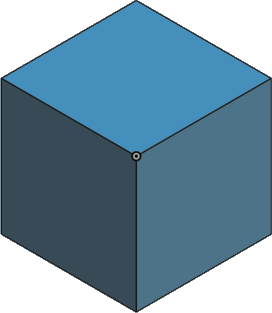
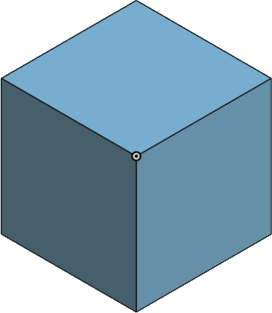
Added correct/incorrect cube rendering Refactoring

diff --git a/projects/isometric/src/events.js b/projects/isometric/src/events.js
@@ -1,7 +1,6 @@
 // Events
 let DISP_HEIGHT = -10
 let mousePos = [];
-let rndTile = [1,1]
 function mouseMoved() {
   const XPos = width/2 - mouseX;
   const YPos = height/2 - mouseY;
@@ -11,18 +10,22 @@ function mouseMoved() {
 const checkIfMatching = (mousePos, rndTile) => (mousePos.every((v, index) => v !== rndTile[index] ? false : true))
 
 function rnd(min, max) {
-  return Math.random() * abs(max-min) + min
+  return Math.random() * Math.abs(max-min) + min
 }
 
-const getRndPos = () => [
-  rnd(GRID_START.i, -GRID_START.i),
-  rnd(GRID_START.j, -GRID_START.j)
-].map(Math.round)
+function getRndPos() {
+  return [
+    rnd(GRID_START.i, -GRID_START.i),
+    rnd(GRID_START.j, -GRID_START.j)
+].map(Math.round)}
 
 function mousePressed() {
   DISP_HEIGHT = -5
 
-  if (checkIfMatching(mousePos, rndTile)) rndTile = getRndPos()
+  if (checkIfMatching(mousePos, rndTile)) {
+    rndTile = getRndPos()
+    cubeClicked = cubeCorrect
+  } else cubeClicked = cubeIncorrect
 }
 
 

diff --git a/projects/isometric/src/grid.js b/projects/isometric/src/grid.js
@@ -18,11 +18,12 @@ function doGridItem(i, j) {
 
 function drawCube(i, j) {
   let drawnCube = cubeImg;
-  // TODO: Make function for nicely dealing with co-ord comparison
-  if (-i === mousePos[1] && -j === mousePos[0]) {
-    drawnCube = cubeSelected
-    if (mouseIsPressed) drawnCube = cubeCorrect
+  const cubePos = [-j, -i]
+
+  if (checkIfMatching(cubePos, mousePos)) {
+    drawnCube = mouseIsPressed ? cubeClicked : cubeSelected
   }
-  if (-i === rndTile[1] && -j === rndTile[0]) drawnCube = cubeTarget
+  if (checkIfMatching(cubePos, rndTile)) drawnCube = cubeTarget
+
   image(drawnCube, 0, 0);
 }

diff --git a/projects/isometric/src/main.js b/projects/isometric/src/main.js
@@ -1,13 +1,14 @@
 const h = 5
 const w = h;
 const GRID_START = {i: -Math.floor(h/2), j: -Math.floor(w/2)}
+let rndTile = getRndPos();
 
 const squareSize = Math.min(window.innerHeight, window.innerWidth)/10
 const IS_MOBILE = window.innerWidth < 600 ? true : false;
 const STARTING_SCALE = IS_MOBILE ? .25 : 1;
 let SCALE = STARTING_SCALE;
 let clrs;
-let cubeImg, cubeCorrect, cubeIncorrect, cubeTarget, cubeSelected;
+let cubeImg, cubeCorrect, cubeIncorrect, cubeTarget, cubeSelected, cubeClicked;
 let gui, guiVars = {
   cubeSpacing: 0,
   amplitude: 50,
